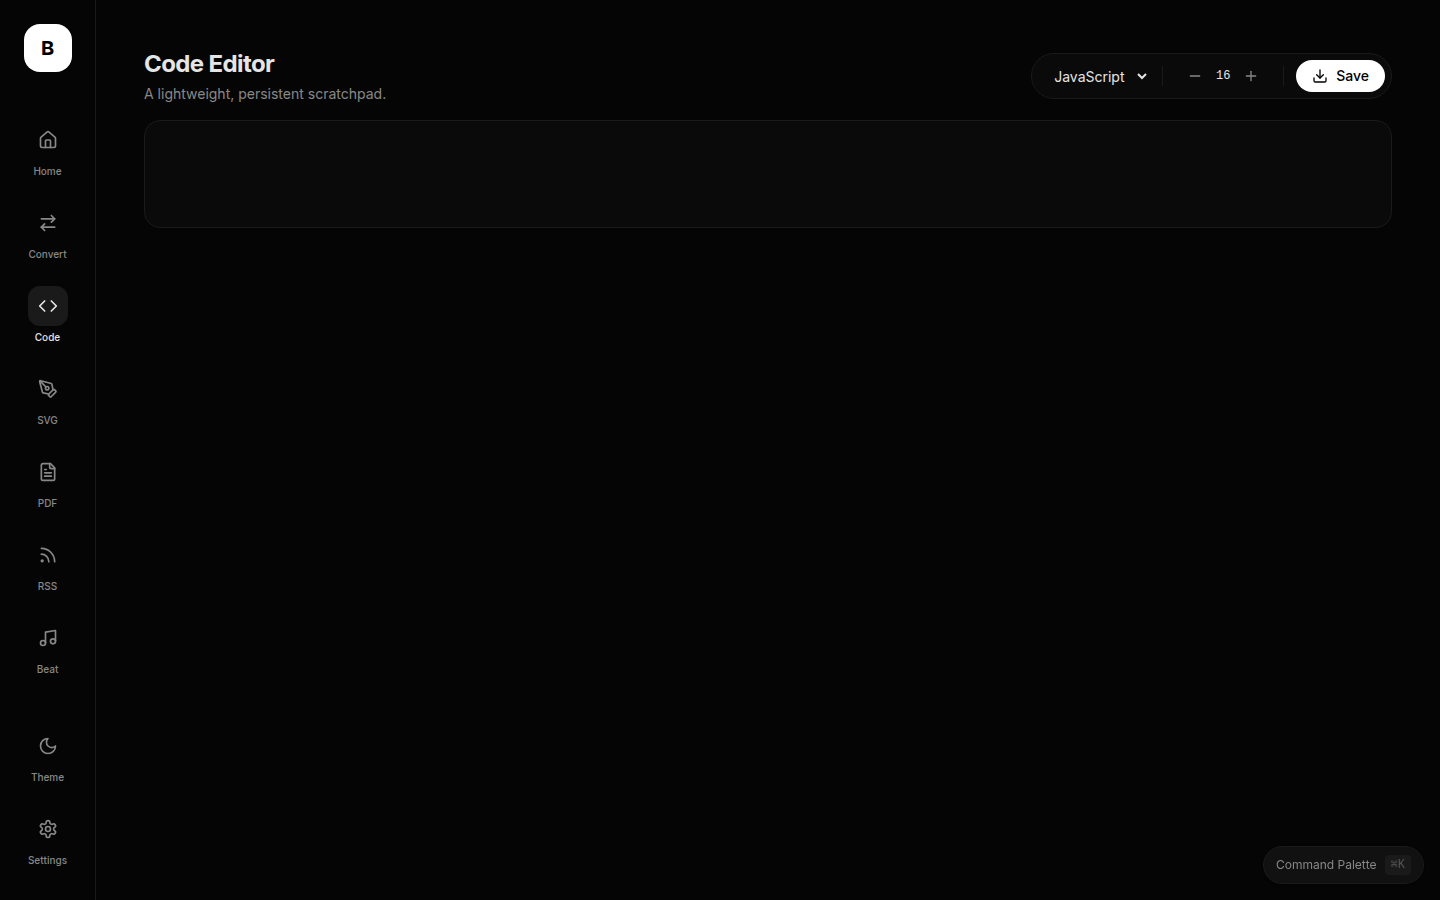
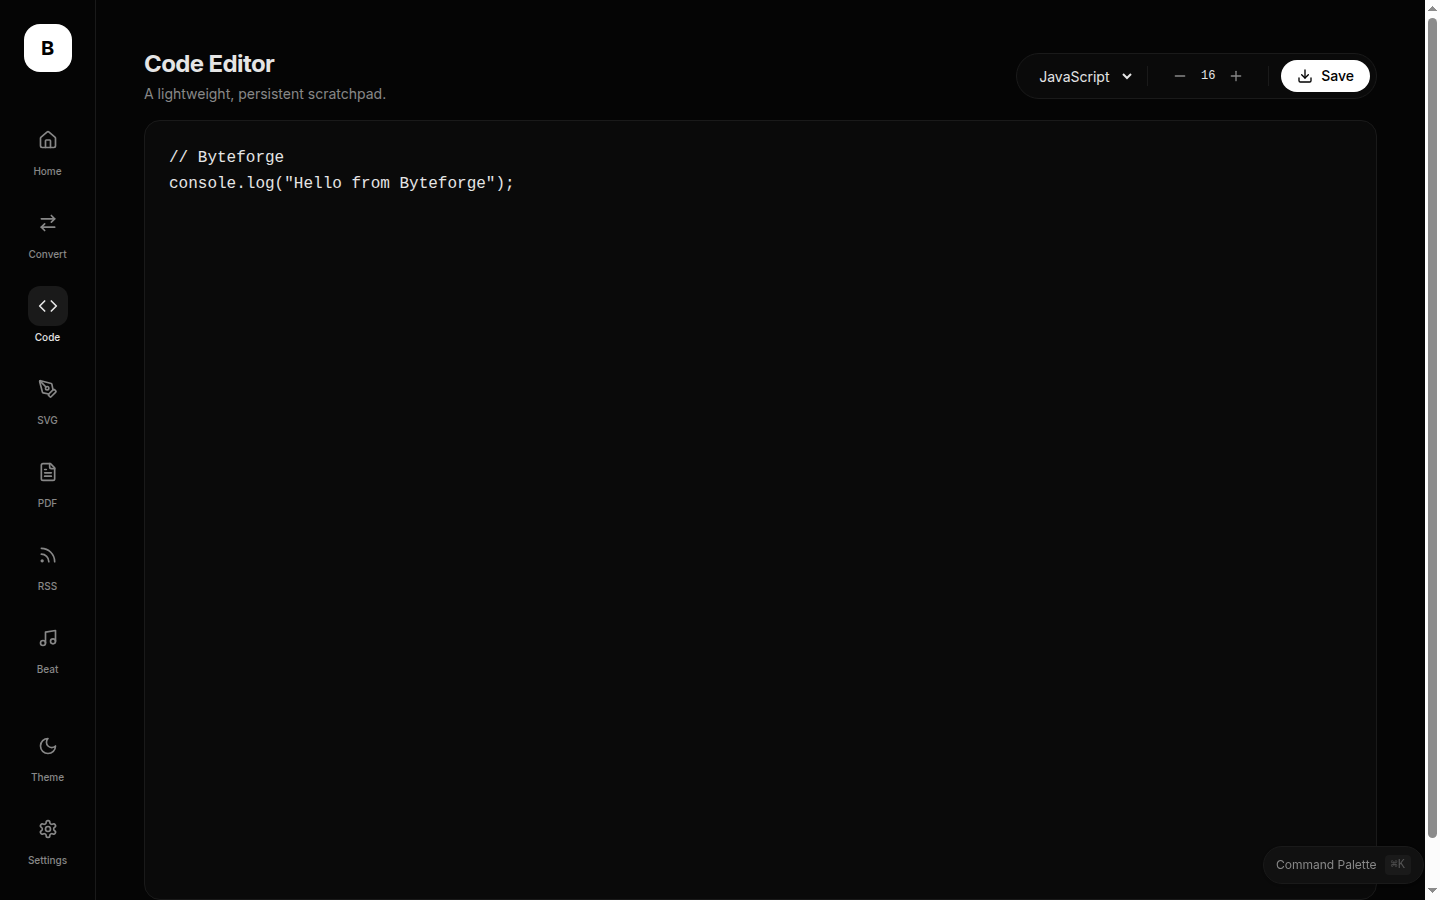
Fix code editor height and retake screenshit3
- Give editor pane a real min-height and fill the textarea box
- Seed default sample code and persist content in localStorage
- Refresh demo/screenshit3.png

Changed region(s): [[0.8438, 0.0, 1.0, 1.0], [0.125, 0.1556, 0.3438, 0.2178], [0.7188, 0.0622, 0.7812, 0.0933]]

diff --git a/web/src/pages/editor.js b/web/src/pages/editor.js
@@ -1,7 +1,7 @@
 function renderEditor(container) {
   const savedSize = localStorage.getItem("byteforge-editor-size") || "16";
   container.innerHTML = `
-    <div class="h-full flex flex-col gap-4">
+    <div class="flex flex-col gap-4" style="min-height: calc(100vh - 3rem);">
       <header class="flex flex-col sm:flex-row sm:items-center justify-between gap-4 shrink-0">
         <div>
           <h1 class="text-2xl font-bold tracking-tight mb-1">Code Editor</h1>
@@ -40,9 +40,8 @@ function renderEditor(container) {
         </div>
       </header>
 
-      <div class="flex-1 bg-surface border border-border rounded-2xl overflow-hidden relative">
-        <!-- Line numbers could be added here, keeping it simple for now -->
-        <textarea id="code-textarea" class="w-full h-full bg-transparent text-fg p-6 outline-none resize-none font-mono leading-relaxed" spellcheck="false" style="font-size: ${savedSize}px;"></textarea>
+      <div class="flex-1 bg-surface border border-border rounded-2xl overflow-hidden relative" style="min-height: 28rem;">
+        <textarea id="code-textarea" class="absolute inset-0 w-full h-full bg-transparent text-fg p-6 outline-none resize-none font-mono leading-relaxed" spellcheck="false" style="font-size: ${savedSize}px;" placeholder="// Write code here..."></textarea>
       </div>
     </div>
   `;
@@ -52,6 +51,28 @@ function renderEditor(container) {
   const fontDisplay = document.getElementById("font-display");
   const downloadBtn = document.getElementById("download-code");
   const langSelect = document.getElementById("lang-select");
+
+  const defaults = {
+    js: '// Byteforge\nconsole.log("Hello from Byteforge");\n',
+    ts: '// Byteforge\nconst msg: string = "Hello from Byteforge";\nconsole.log(msg);\n',
+    python: '# Byteforge\nprint("Hello from Byteforge")\n',
+    html: '<!DOCTYPE html>\n<html>\n<head><title>Byteforge</title></head>\n<body>\n  <h1>Hello from Byteforge</h1>\n</body>\n</html>\n',
+    css: '/* Byteforge */\nbody { font-family: system-ui; background: #0a0a0a; color: #e5e5e5; }\n',
+    json: '{\n  "name": "byteforge",\n  "ok": true\n}\n',
+    md: '# Byteforge\n\nA universal toolkit for files, code, documents, feeds and sound.\n'
+  };
+  const savedCode = localStorage.getItem("byteforge-editor-code");
+  if (savedCode) textarea.value = savedCode;
+  else textarea.value = defaults.js;
+  langSelect?.addEventListener("change", () => {
+    if (!textarea.value.trim() || Object.values(defaults).includes(textarea.value)) {
+      textarea.value = defaults[langSelect.value] || "";
+    }
+  });
+  textarea.addEventListener("input", () => {
+    localStorage.setItem("byteforge-editor-code", textarea.value);
+  });
+
   let currentSize = parseInt(savedSize, 10);
   const updateFontSize = (newSize) => {
     if (newSize < 10 || newSize > 32) return;
